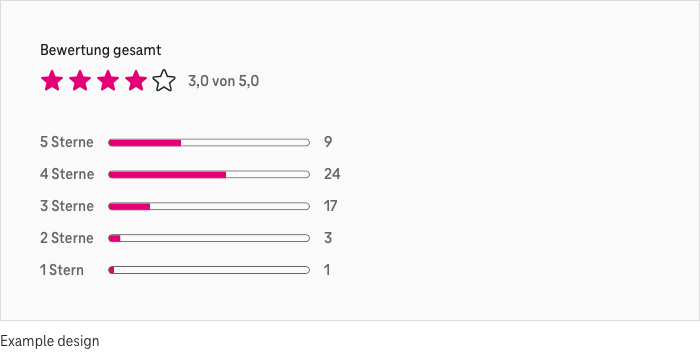
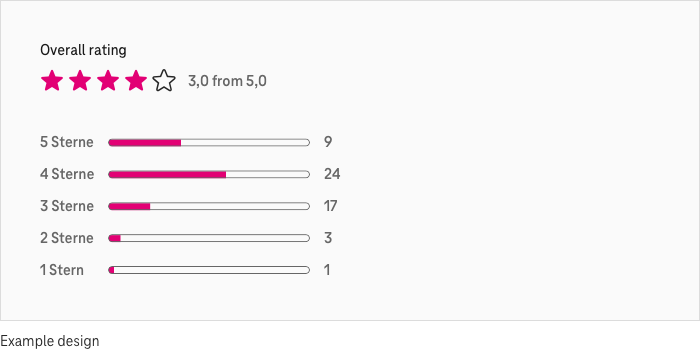
docs: update-storybook

Changed region(s): [[0.06, 0.125, 0.24, 0.1875], [0.3, 0.2188, 0.39, 0.25]]

diff --git a/packages/storybook-vue/stories/3_components/loading-spinner/loading-spinner_de.md b/packages/storybook-vue/stories/3_components/loading-spinner/loading-spinner_de.md
@@ -3,17 +3,17 @@
     <img src="assets/aa.png" alt="Accessible AA" />
 </div>
 
-Ein Loading-Spinner signalisiert, dass das System einen Prozess ausführt. Er gibt Nutzer\*innen die Sicherheit, dass das System ihre Anfrage verstanden hat und verarbeitet.
+Ein Loading Spinner signalisiert, dass das System einen Prozess ausführt. Er gibt Nutzer\*innen die Sicherheit, dass das System ihre Anfrage verstanden hat und verarbeitet.
 
 ## Allgemein
 
-Ein Loading-Spinner ist ein kreisförmiges Symbol, das sich in Dauerschleife dreht. Es liefert Nutzer\*innen keinen Hinweis über die voraussichtliche Wartezeit.
+Ein Loading Spinner ist ein kreisförmiges Symbol, das sich in Dauerschleife dreht. Es liefert Nutzer\*innen keinen Hinweis über die voraussichtliche Wartezeit.
 
-### Verwende einen Loading-Spinner, wenn
+### Verwende einen Loading Spinner, wenn
 
 - eine Wartezeit entsteht, die voraussichtlich 2 bis 10 Sekunden beträgt.
 
-### Verwende Loading-Spinner besser nicht, wenn
+### Verwende Loading Spinner besser nicht, wenn
 
 - die Wartezeit kürzer als 2 Sekunden ist und wenn
 - die Wartezeit länger als 10 Sekunden ist. In diesem Fall sollten Nutzer\*innen eine Information erhalten, wie lange die Wartezeit voraussichtlich sein wird (siehe " Progress-Bar").

diff --git a/packages/storybook-vue/stories/3_components/rating-stars/rating-stars_de.md b/packages/storybook-vue/stories/3_components/rating-stars/rating-stars_de.md
@@ -34,7 +34,7 @@ Statische Rating Stars haben keine interaktive Funktion, sondern vermitteln ledi
 
 ## Elemente
 
-![Image Name](assets/3_components/rating-stars/RatingStars-Elemente.png)
+![Image Name](assets/3_components/rating-stars/RatingStars-Elemente-de.png)
 
 #### Label (1)
 
@@ -45,7 +45,7 @@ In einigen Fällen kann es Sinn machen, das Label einzublenden (siehe Best Pract
 
 #### Inaktiver Stern (3)
 
-#### Wert (4)
+#### Information (4)
 
 Der Wert kommuniziert eine Zusatzinformation, wie bspw. die Anzahl der bisherigen Bewertungen.
 
@@ -53,7 +53,7 @@ Der Wert kommuniziert eine Zusatzinformation, wie bspw. die Anzahl der bisherige
 
 Scale beinhaltet die Rating Stars in zwei Größen. Die Größe „Large“ ist der Standard. Wenn du wenig Raum zur Verfügung hast, setze die Größe „Small“ ein. Vermeide die Kombination beider Größen innerhalb eines Produkts oder Services.
 
-![Image Name](assets/3_components/rating-stars/RatingStars-Groessen.png)
+![Image Name](assets/3_components/rating-stars/RatingStars-Groessen-de.png)
 
 ## Best Practices
 

diff --git a/packages/storybook-vue/stories/3_components/rating-stars/rating-stars.md b/packages/storybook-vue/stories/3_components/rating-stars/rating-stars.md
@@ -38,7 +38,7 @@ Static rating stars don't have an interactive function, but merely convey inform
 
 ## Elements
 
-![Image Name](assets/3_components/rating-stars/RatingStars-Elemente.png)
+![Image Name](assets/3_components/rating-stars/RatingStars-Elemente-en.png)
 
 #### Label (1)
 
@@ -49,15 +49,15 @@ In some cases, it can make sense to show the label (see Best practices).
 
 #### Inactive star (3)
 
-#### Rating (4)
+#### Info message (4)
 
-The rating provides additional information such as the number of previous reviews.
+The info message provides additional information such as the number of previous reviews.
 
 ## Sizes
 
 Scale contains rating stars in two sizes. The large size is standard. If there isn't much space available, use the small size. Don't combine both sizes within one product or service.
 
-![Image Name](assets/3_components/rating-stars/RatingStars-Groessen.png)
+![Image Name](assets/3_components/rating-stars/RatingStars-Groessen-en.png)
 
 ## Best Practices
 
